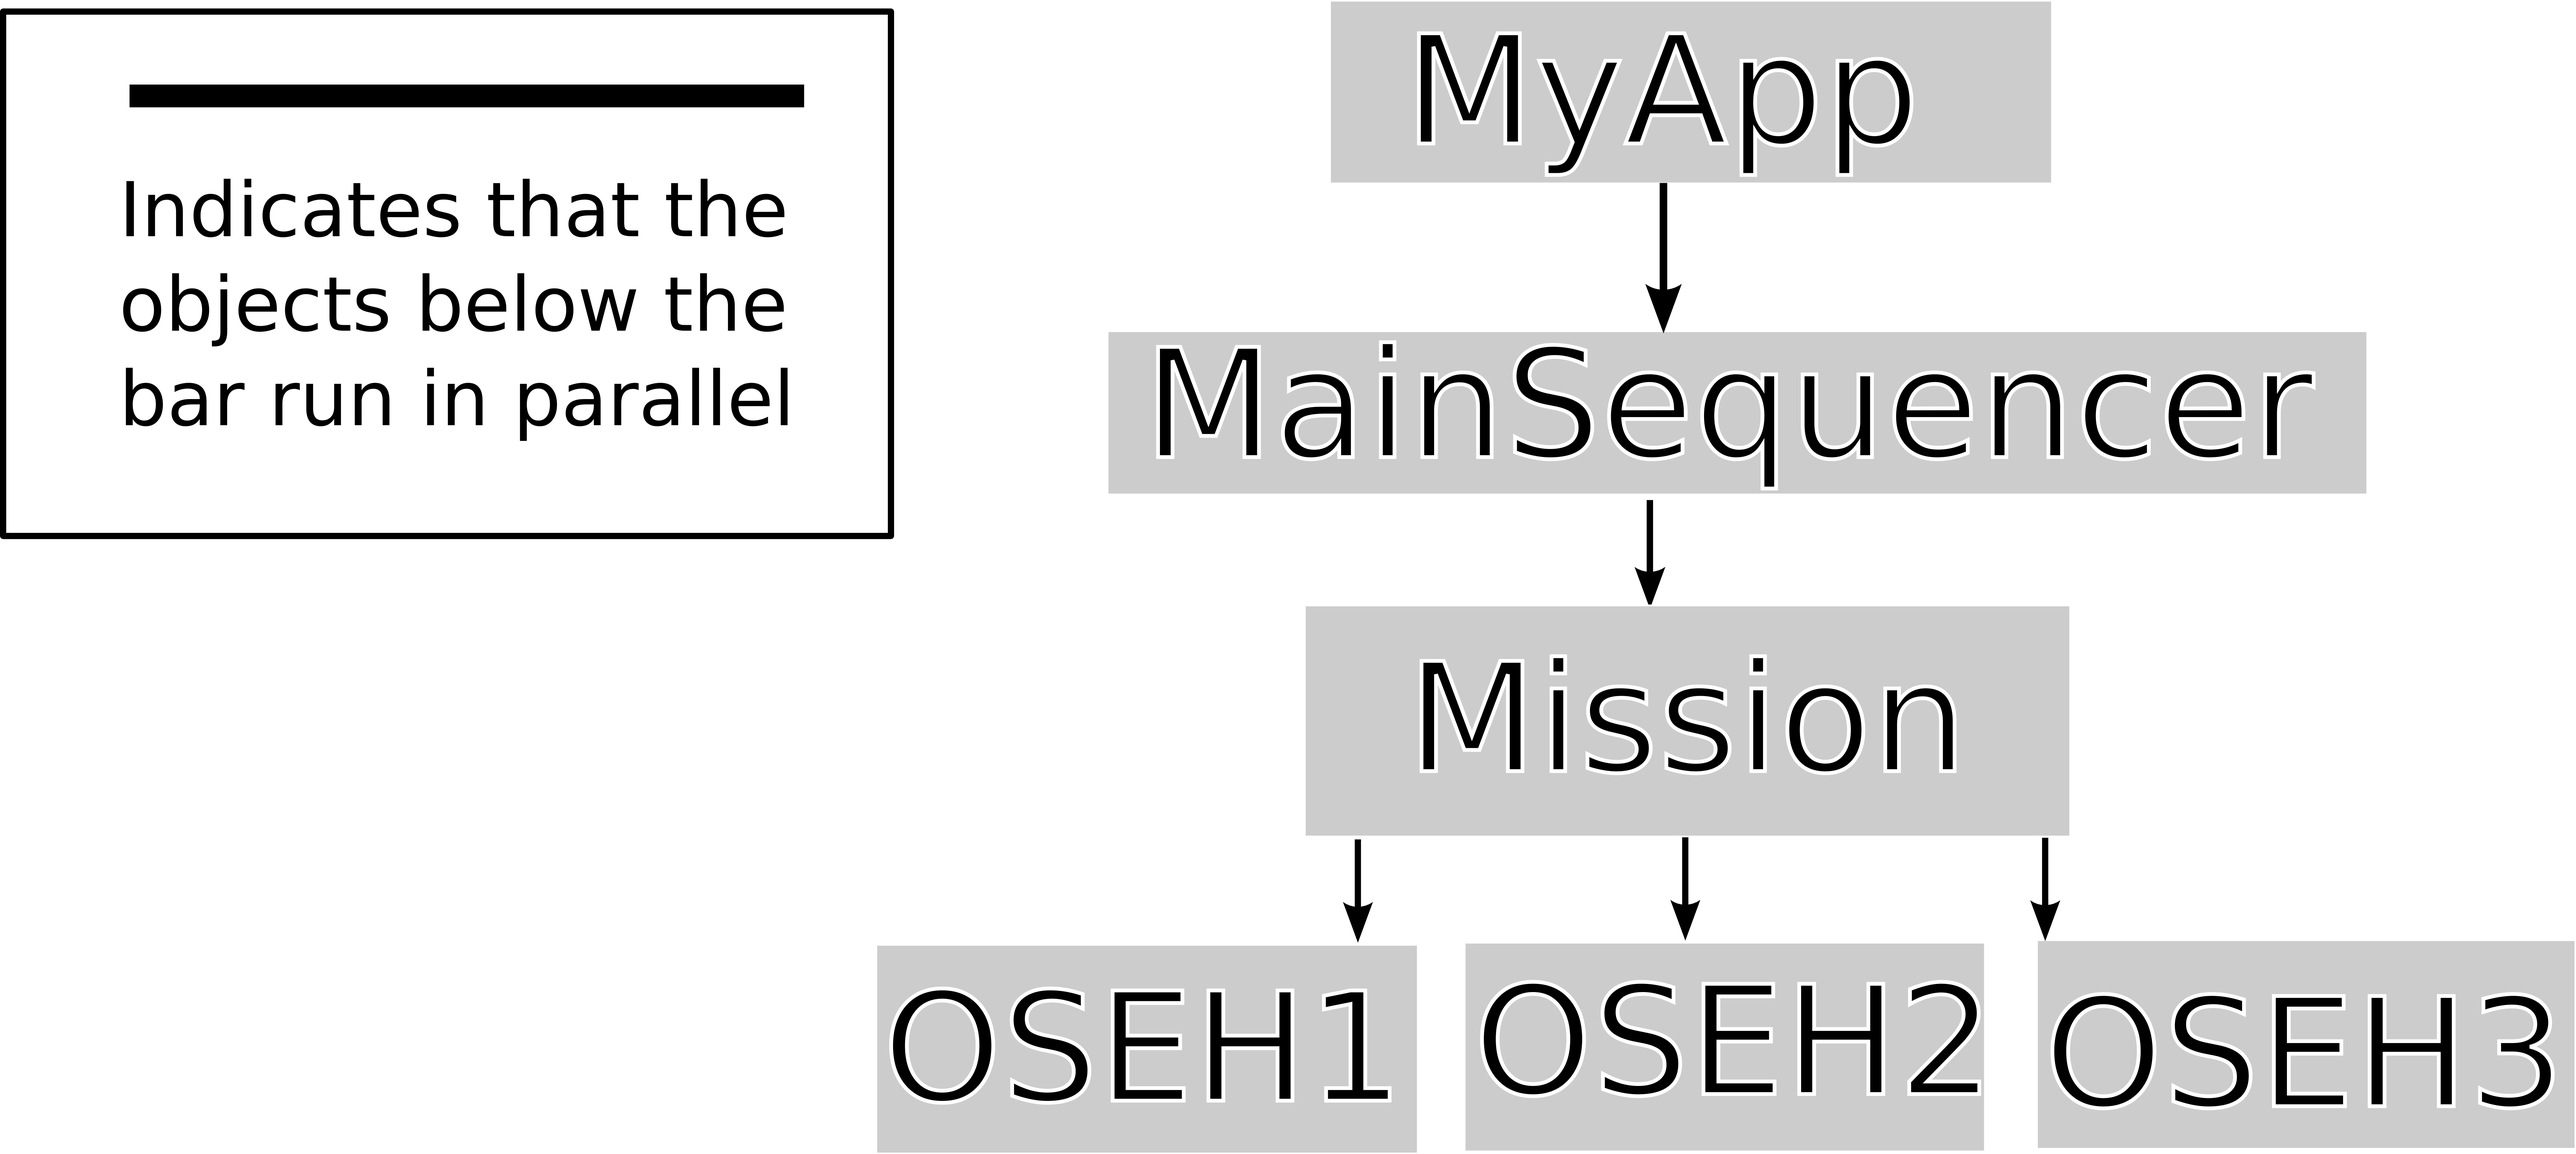
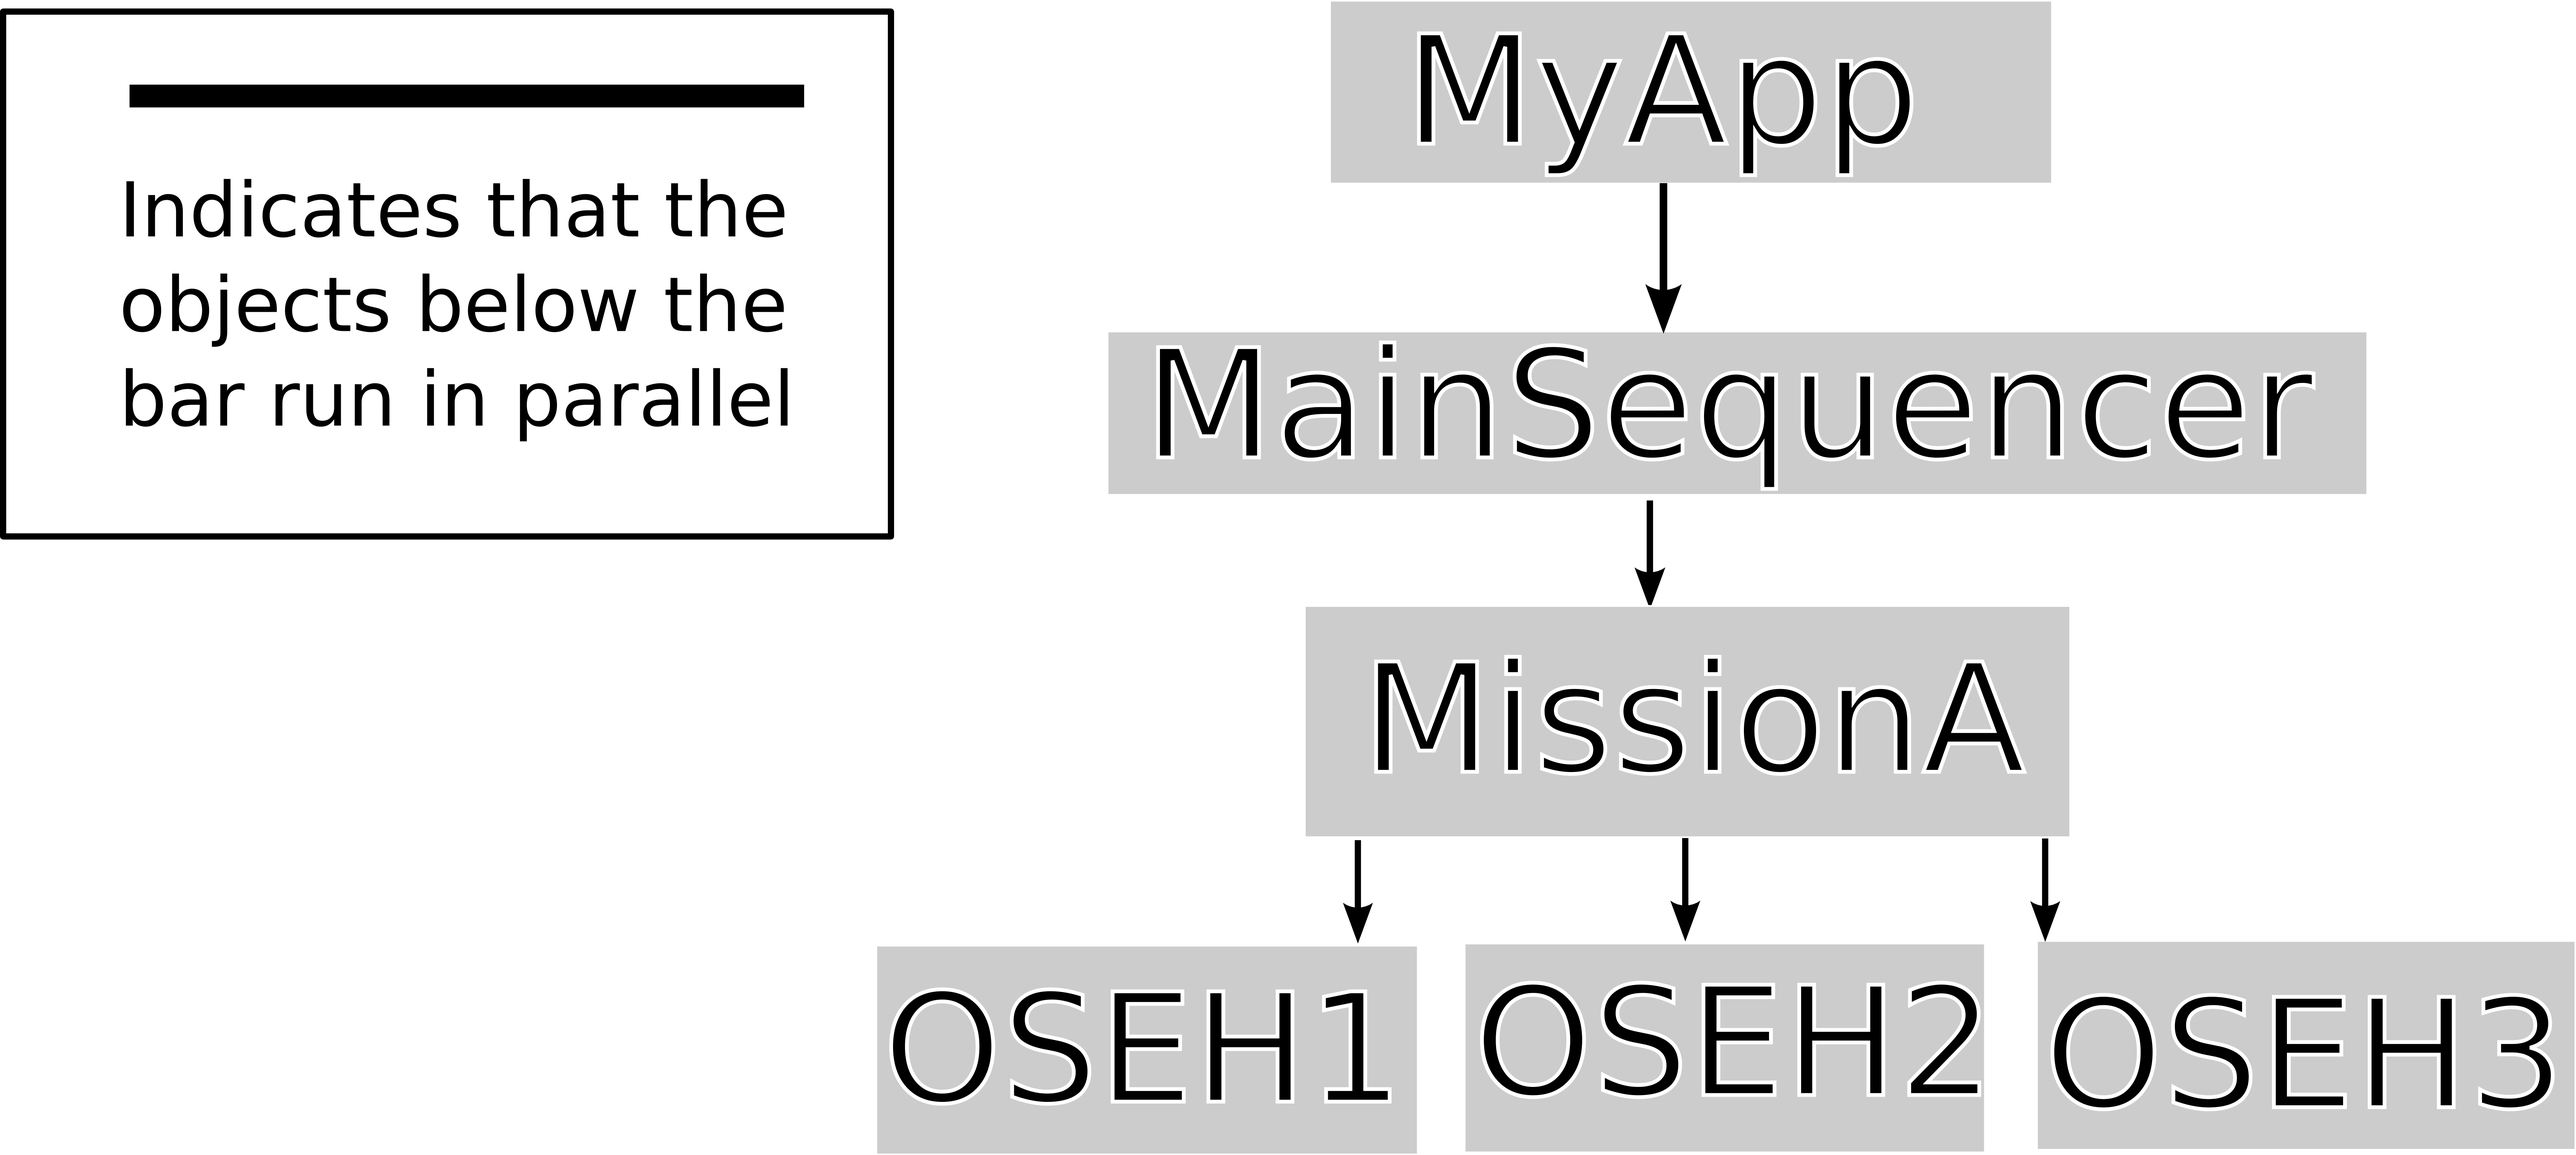
Updated the getNextMission methods so that most of them now bloody work!

Changed region(s): [[0.5303, 0.5625, 0.7798, 0.6875]]

diff --git a/Examples/ThreeOneShotsExample/program/MyApp.java b/Examples/ThreeOneShotsExample/program/MyApp.java
@@ -1,0 +1,49 @@
+package threeOneShots;
+
+import javax.realtime.PriorityParameters;
+import javax.safetycritical.Mission;
+import javax.safetycritical.MissionSequencer;
+import javax.safetycritical.Safelet;
+import javax.safetycritical.StorageParameters;
+import javax.safetycritical.annotate.Level;
+import javax.safetycritical.annotate.Phase;
+import javax.safetycritical.annotate.SCJAllowed;
+import javax.safetycritical.annotate.SCJRestricted;
+import javax.scj.util.Const;
+
+import devices.Console;
+
+class MyApp implements Safelet<Mission>
+{
+	static PriorityParameters pri = new PriorityParameters(5);
+	static StorageParameters storage = new StorageParameters(
+			Const.OVERALL_BACKING_STORE_DEFAULT - 1000000,
+			new long[] { Const.HANDLER_STACK_SIZE },
+			Const.PRIVATE_MEM_DEFAULT, 10000 * 2, Const.MISSION_MEM_DEFAULT);
+	
+
+	@Override
+	@SCJAllowed(Level.SUPPORT)
+	@SCJRestricted(Phase.INITIALIZE)
+	public MissionSequencer<Mission> getSequencer()
+	{		
+		MissionSequencer<Mission> mainSequencer = new MainSequencer(pri, storage, "Main Sequencer");
+		return mainSequencer;
+	}
+
+	@Override
+	@SCJAllowed(Level.SUPPORT)
+	public long immortalMemorySize()
+	{
+		return Const.IMMORTAL_MEM_DEFAULT;
+	}
+
+	@Override
+	@SCJAllowed(Level.SUPPORT)
+	@SCJRestricted(Phase.INITIALIZE)
+	public void initializeApplication()
+	{
+		Console.println("Init Application");		
+	}
+	
+}

diff --git a/Examples/ThreeOneShotsExample/program/MissionA.java b/Examples/ThreeOneShotsExample/program/MissionA.java
@@ -1,0 +1,34 @@
+package threeOneShots;
+
+import javax.realtime.AperiodicParameters;
+import javax.realtime.RelativeTime;
+import javax.safetycritical.Mission;
+import javax.safetycritical.annotate.Level;
+import javax.safetycritical.annotate.SCJAllowed;
+
+class MissionA extends Mission
+{
+	@Override
+	@SCJAllowed(Level.SUPPORT)
+	protected void initialize()
+	{
+		AperiodicParameters apParams = new AperiodicParameters(new RelativeTime(5, 0), null);
+		OSEH1 OneShot = new OSEH1(MyApp.pri, new RelativeTime(60,0),apParams, MyApp.storage, this);
+		OneShot.register();
+		
+		OSEH2 OneShot2 = new OSEH2(MyApp.pri, new RelativeTime(60,0),apParams, MyApp.storage, this);
+		OneShot2.register();
+		
+		OSEH3 OneShot3 = new OSEH3(MyApp.pri, new RelativeTime(60,0),apParams, MyApp.storage, this);
+		OneShot3.register();
+		
+	}
+
+	@Override
+	@SCJAllowed(Level.SUPPORT)
+	public long missionMemorySize()
+	{
+		return 1048576;
+	}
+	
+}

diff --git a/Examples/Mission+PEH+APEH(mission1)/program/MainSequencer.java b/Examples/Mission+PEH+APEH(mission1)/program/MainSequencer.java
@@ -6,8 +6,11 @@ import javax.safetycritical.StorageParameters;
 import javax.safetycritical.annotate.Level;
 import javax.safetycritical.annotate.SCJAllowed;
 
+import devices.Console;
+
 class MainSequencer extends MissionSequencer<MyMission>
 {
+	private boolean notReleased = true;
 
 	public MainSequencer(PriorityParameters priority, StorageParameters storage,
 			String name) throws IllegalStateException
@@ -19,8 +22,17 @@ class MainSequencer extends MissionSequencer<MyMission>
 	@SCJAllowed(Level.SUPPORT)
 	protected MyMission getNextMission()
 	{
-		MyMission mission = new MyMission();
-		return mission;
+		Console.println(getName()+  " getNextMission");
+		if (notReleased)
+		{
+			MyMission mission = new MyMission();
+			notReleased = false;
+			return mission;
+		}
+		else
+		{
+			return null;
+		}
 	}
-	
+
 }

diff --git a/Examples/ThreeOneShotsExample/program/OSEH1.java b/Examples/ThreeOneShotsExample/program/OSEH1.java
@@ -1,0 +1,32 @@
+package threeOneShots;
+
+import javax.realtime.AperiodicParameters;
+import javax.realtime.HighResolutionTime;
+import javax.realtime.PriorityParameters;
+import javax.safetycritical.Mission;
+import javax.safetycritical.OneShotEventHandler;
+import javax.safetycritical.StorageParameters;
+
+import devices.Console;
+
+class OSEH1 extends OneShotEventHandler
+{
+	Mission controllingMision;
+	
+	public OSEH1(PriorityParameters pri, HighResolutionTime start,
+			AperiodicParameters aParams, StorageParameters storage, Mission controllingMission)
+	{
+		super(pri, start, aParams, storage);
+		
+		this.controllingMision = controllingMission;
+	}
+
+	@Override
+	public void handleAsyncEvent()
+	{
+		Console.println("OSEH1 Release");
+		
+		controllingMision.requestTermination();
+	}
+	
+}

diff --git a/Examples/ThreeOneShotsExample/program/OSEH2.java b/Examples/ThreeOneShotsExample/program/OSEH2.java
@@ -1,0 +1,32 @@
+package threeOneShots;
+
+import javax.realtime.AperiodicParameters;
+import javax.realtime.HighResolutionTime;
+import javax.realtime.PriorityParameters;
+import javax.safetycritical.Mission;
+import javax.safetycritical.OneShotEventHandler;
+import javax.safetycritical.StorageParameters;
+
+import devices.Console;
+
+class OSEH2 extends OneShotEventHandler
+{
+	Mission controllingMision;
+	
+	public OSEH2(PriorityParameters pri, HighResolutionTime start,
+			AperiodicParameters aParams, StorageParameters storage, Mission controllingMission)
+	{
+		super(pri, start, aParams, storage);
+		
+		this.controllingMision = controllingMission;
+	}
+
+	@Override
+	public void handleAsyncEvent()
+	{
+		Console.println("OSEH2 Release");
+		
+		controllingMision.requestTermination();
+	}
+	
+}

diff --git a/Examples/ThreeOneShotsExample/program/OSEH3.java b/Examples/ThreeOneShotsExample/program/OSEH3.java
@@ -1,0 +1,32 @@
+package threeOneShots;
+
+import javax.realtime.AperiodicParameters;
+import javax.realtime.HighResolutionTime;
+import javax.realtime.PriorityParameters;
+import javax.safetycritical.Mission;
+import javax.safetycritical.OneShotEventHandler;
+import javax.safetycritical.StorageParameters;
+
+import devices.Console;
+
+class OSEH3 extends OneShotEventHandler
+{
+	Mission controllingMision;
+	
+	public OSEH3(PriorityParameters pri, HighResolutionTime start,
+			AperiodicParameters aParams, StorageParameters storage, Mission controllingMission)
+	{
+		super(pri, start, aParams, storage);
+		
+		this.controllingMision = controllingMission;
+	}
+
+	@Override
+	public void handleAsyncEvent()
+	{
+		Console.println("OSEH3 Release");
+		
+		controllingMision.requestTermination();
+	}
+	
+}

diff --git a/Examples/ThreeOneShotsExample/program/MainSequencer.java b/Examples/ThreeOneShotsExample/program/MainSequencer.java
@@ -1,4 +1,4 @@
-package mission2;
+package threeOneShots;
 
 import javax.realtime.PriorityParameters;
 import javax.safetycritical.Mission;
@@ -12,7 +12,7 @@ import devices.Console;
 class MainSequencer extends MissionSequencer<Mission>
 {
 	private boolean notReleased = true;
-
+	
 	public MainSequencer(PriorityParameters priority, StorageParameters storage,
 			String name) throws IllegalStateException
 	{
@@ -24,9 +24,11 @@ class MainSequencer extends MissionSequencer<Mission>
 	protected Mission getNextMission()
 	{
 		Console.println(getName()+  " getNextMission");
+		
 		if (notReleased)
 		{
-			MissionA mission = new MissionA();
+			Mission mission = new MissionA();
+		
 			notReleased = false;
 			return mission;
 		}

diff --git a/Examples/ThreeOneShotsExample/program/AppLauncher.java b/Examples/ThreeOneShotsExample/program/AppLauncher.java
@@ -1,0 +1,21 @@
+package threeOneShots;
+
+import javax.safetycritical.LaunchLevel2;
+
+import devices.Console;
+
+
+
+//Application entry point, runs the Safelet
+public class AppLauncher
+{
+	public static void main(String[] args)
+	{
+		Console.println("App Launcher ");
+				
+		new LaunchLevel2(new MyApp());
+		
+		
+		Console.println("AppLauncher Finished");
+	}
+}
